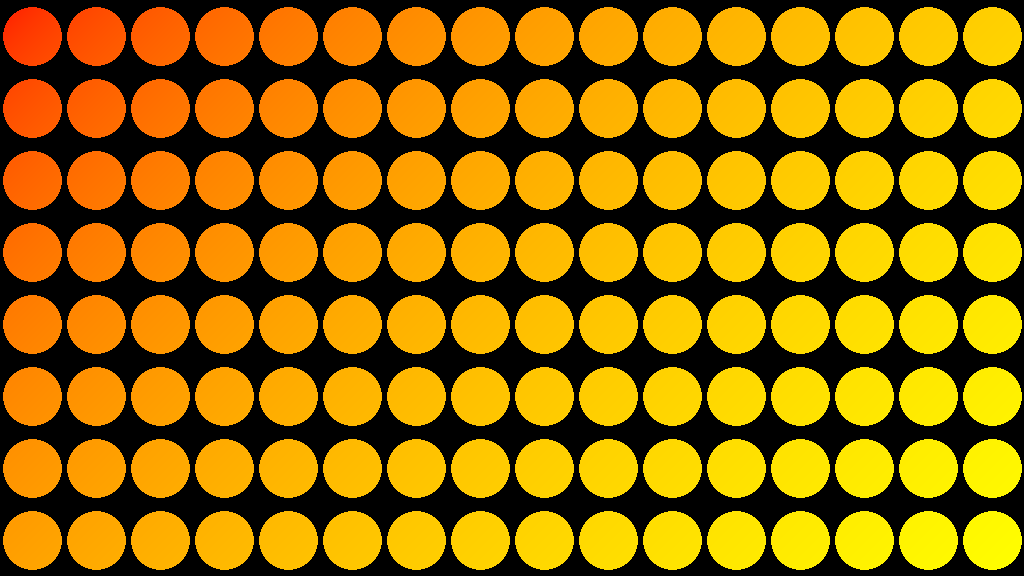
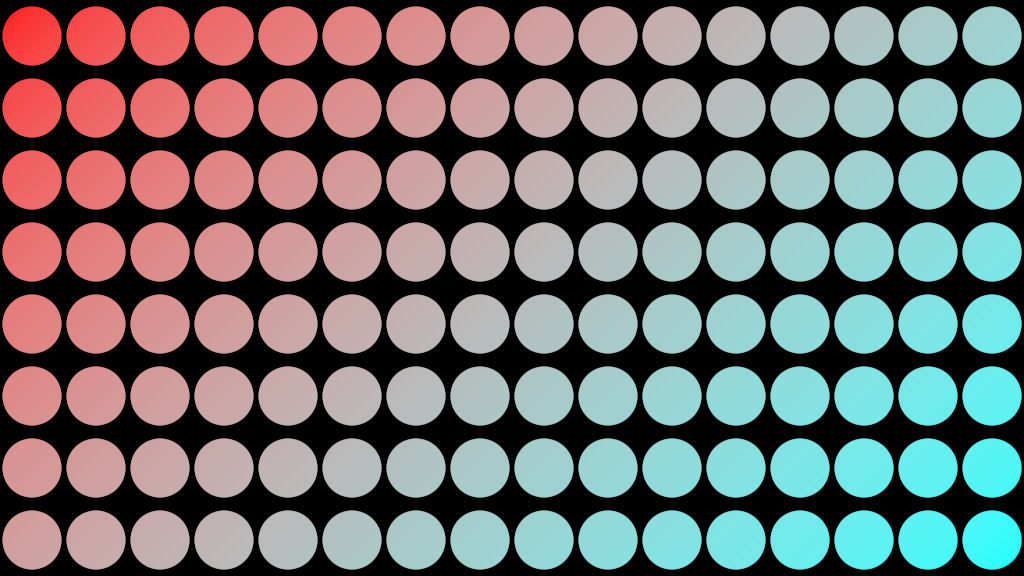
refactored image sampling and saving to image class, added supersampling, cleaned main.rs

diff --git a/raytracer/src/main.rs b/raytracer/src/main.rs
@@ -1,95 +1,7 @@
 use crate::rt_classes::color::Color;
 use crate::rt_classes::image::Image;
-use crate::rt_classes::samplers::{GradientColor, Disc, PolkaDots, Sampler};
+use crate::rt_classes::samplers::{GradientColor};
 pub mod rt_classes;
-
-/// Generate and save PNG-Image from Vec<u8> data array
-/// #### Arguments
-/// * `data`: Vec<u8> data array reference
-/// * `width`, `height`: dimensions of the image
-/// * `path_str`: relative path as String reference`
-fn save_image_png(data: &Vec<u8>, width: usize, height: usize, path_str: &str) {
-    use std::io::BufWriter;
-    use std::path::Path;
-    use std::fs::File;
-
-    let path = Path::new(&path_str);
-    let file = File::create(path).unwrap();
-    let ref mut w = BufWriter::new(file);
-
-    let mut encoder = png::Encoder::new(w, width as u32, height as u32);
-    encoder.set_color(png::ColorType::Rgb);
-    encoder.set_depth(png::BitDepth::Eight);
-    let source_chromaticities = png::SourceChromaticities::new(
-        (0.31270, 0.32900),
-        (0.64000, 0.33000),
-        (0.30000, 0.60000),
-        (0.15000, 0.06000)
-    );
-    encoder.set_source_chromaticities(source_chromaticities);
-    let mut writer = encoder.write_header().unwrap();
-    writer.write_image_data(&data).unwrap();
-}
-
-#[allow(dead_code)]
-fn create_gradient_image(width: usize, height: usize, gamma: f64) {
-    // create new image
-    let mut image = Image::new(width, height, gamma);
-
-    // sample the image
-    let color1 = Color::new_from_u8(255, 0, 0);
-    let color2 = Color::new_from_u8(0, 255, 0);
-    let gradient_color = GradientColor::new(width, height, color1, color2);
-    for y in 0..height {
-        for x in 0..width {
-            let color = gradient_color.get_color(x as f64, y as f64);
-            image.set_pixel(x, y, color);
-        }
-    }
-
-    // save image output to PNG
-    save_image_png(&image.get_data(), width, height, "./doc/gradient_test_image.png");
-}
-
-#[allow(dead_code)]
-fn create_disc_image(width: usize, height: usize, gamma: f64) {
-    // create new image
-    let mut image = Image::new(width, height, gamma);
-
-    // sample the image
-    let color = Color::new_from_u8(255, 0, 0);
-    let disc = Disc::new(width, height, height as f64/2.0, color);
-    for y in 0..height {
-        for x in 0..width {
-            let color = disc.get_color(x as f64, y as f64);
-            image.set_pixel(x, y, color);
-        }
-    }
-
-    // save image output to PNG
-    save_image_png(&image.get_data(), width, height, "./doc/disc_test_image.png");
-}
-
-#[allow(dead_code)]
-fn create_polka_dots_image(width: usize, height: usize, gamma: f64) {
-    // create new image
-    let mut image = Image::new(width, height, gamma);
-
-    // sample the image
-    let color1 = Color::new_from_u8(255, 0, 0);
-    let color2 = Color::new_from_u8(255, 255, 0);
-    let polka_dots = PolkaDots::new(width, height,16,8,height as f64/8.0, color1, color2);
-    for y in 0..height {
-        for x in 0..width {
-            //let color = get_gradient_color(x, y, width, height, color1, color2);
-            let color = polka_dots.get_color(x as f64, y as f64);
-            image.set_pixel(x, y, color);
-        }
-    }
-
-    // save image output to PNG
-    save_image_png(&image.get_data(), width, height, "./doc/polka_dots_test_image.png");
-}
 
 fn main() {
     // image dimensions
@@ -97,8 +9,15 @@ fn main() {
     let height: usize = 576;
     let gamma: f64 = 2.2;
 
-    // create the images
-    create_gradient_image(width, height, gamma);
-    create_disc_image(width, height, gamma);
-    create_polka_dots_image(width, height, gamma);
+    // create new image
+    let mut image = Image::new(width, height, gamma);
+
+    // sample the image
+    let color1 = Color::new_from_u8(255, 0, 0);
+    let color2 = Color::new_from_u8(0, 255, 255);
+    let gradient = GradientColor::new(width, height, color1, color2);
+    image.sample(&gradient, 0);
+
+    // save image output to PNG
+    image.save_as_png("./doc/tmp.png");
 }

diff --git a/raytracer/src/rt_classes/image.rs b/raytracer/src/rt_classes/image.rs
@@ -1,4 +1,8 @@
 use crate::rt_classes::color::Color;
+use crate::rt_classes::samplers::Sampler;
+use rand::SeedableRng;
+use rand::rngs::SmallRng;
+use rand::Rng;
 
 pub struct Image {
     data: Vec<u8>,
@@ -16,7 +20,7 @@ impl Image {
         Image { data: vec, width, height, gamma }
     }
 
-    pub fn set_pixel(&mut self, x: usize, y: usize, color: Color) {
+    fn set_pixel(&mut self, x: usize, y: usize, color: Color) {
         let index = 3 * (y * self.width + x);
 
         if self.gamma != 0.0 {
@@ -32,8 +36,51 @@ impl Image {
         }
     }
 
-    pub fn get_data(&self) -> Vec<u8> {
-        let output = self.data.clone();
-        output
+    pub fn sample(&mut self, sampler: &dyn Sampler, n: u8) {
+        let mut rng = SmallRng::from_entropy();
+        for y in 0..self.height {
+            for x in 0..self.width {
+                let color = if n > 0 {
+                    // Antialiasing with n subpixels
+                    let mut color = Color::new(0.0, 0.0, 0.0);
+                    for _ in 0..n {
+                        for _ in 0..n {
+                            let xs = x as f64 + rng.gen_range(0.0..1.0);
+                            let ys = y as f64 + rng.gen_range(0.0..1.0);
+                            color = Color::add(&color, &sampler.get_color(xs, ys));
+                        }
+                    }
+                    let n = n as f64;
+                    Color::divide(&color, n * n)
+                }
+                else {
+                    sampler.get_color(x as f64, y as f64)
+                };
+                self.set_pixel(x, y, color);
+            }
+        }
+    }
+
+    pub fn save_as_png(&self, path_str: &str) {
+        use std::io::BufWriter;
+        use std::path::Path;
+        use std::fs::File;
+
+        let path = Path::new(&path_str);
+        let file = File::create(path).unwrap();
+        let ref mut w = BufWriter::new(file);
+
+        let mut encoder = png::Encoder::new(w, self.width as u32, self.height as u32);
+        encoder.set_color(png::ColorType::Rgb);
+        encoder.set_depth(png::BitDepth::Eight);
+        let source_chromaticities = png::SourceChromaticities::new(
+            (0.31270, 0.32900),
+            (0.64000, 0.33000),
+            (0.30000, 0.60000),
+            (0.15000, 0.06000)
+        );
+        encoder.set_source_chromaticities(source_chromaticities);
+        let mut writer = encoder.write_header().unwrap();
+        writer.write_image_data(&*self.data).unwrap();
     }
 }
